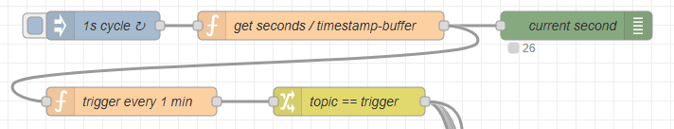
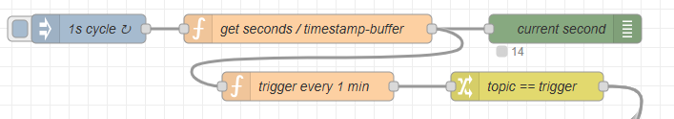
timestamp function

diff --git a/docs/README_DataManagementNodeRed.md b/docs/README_DataManagementNodeRed.md
@@ -16,11 +16,16 @@ The following illustrations show the complete Node-RED flow needed to read, stor
 
 ![node-red-part1](graphics/3-nodered-part1.png)
 
-The first part of our flow will synchronize the flow with the system time of the IOT2050. For this purpose the seconds of the system time will read out by the function `get system-date seconds`:
+The first part of our flow will synchronize the flow with the system time of the IOT2050. For this purpose the seconds of the system time will read out by the function `get system-date seconds`. It will also store the current UTC-timestamp to the buffer. This timestamp will later be added to the `mqtt-topics`:
 
 ```javascript
-let now = new Date();
+let timestamp = Date.now();
+let now = new Date(timestamp);
+
+flow.set("timestamp", timestamp);
+
 msg.payload = now.getSeconds();
+return msg;
 ```
 
 The function `trigger every 1 min` will then wait until a full minute has elapsed:
@@ -65,7 +70,7 @@ System clock synchronized: yes
 
 ```
 
-YOu can use `timedatectl list-timezones` to see all available timezones fpr the `timedatectl-service`:
+YOu can use `timedatectl list-timezones` to see all available timezones for the `timedatectl-service`:
 
 ```bash
 root@iot2050-debian:~# timedatectl list-timezones
@@ -144,7 +149,7 @@ return null;
 
 All `buffer-topics` contain a UTC-timestamp (depending on the pre-configured ntp-server / system-time).
 
-The `voltage alarm` additionally examines the incoming value for predefined upper and lower threshold values:
+The `voltage alarm` additionally examines the incoming value for predefined upper and lower threshold values (continuously):
 
 ```javascript
 // limits
